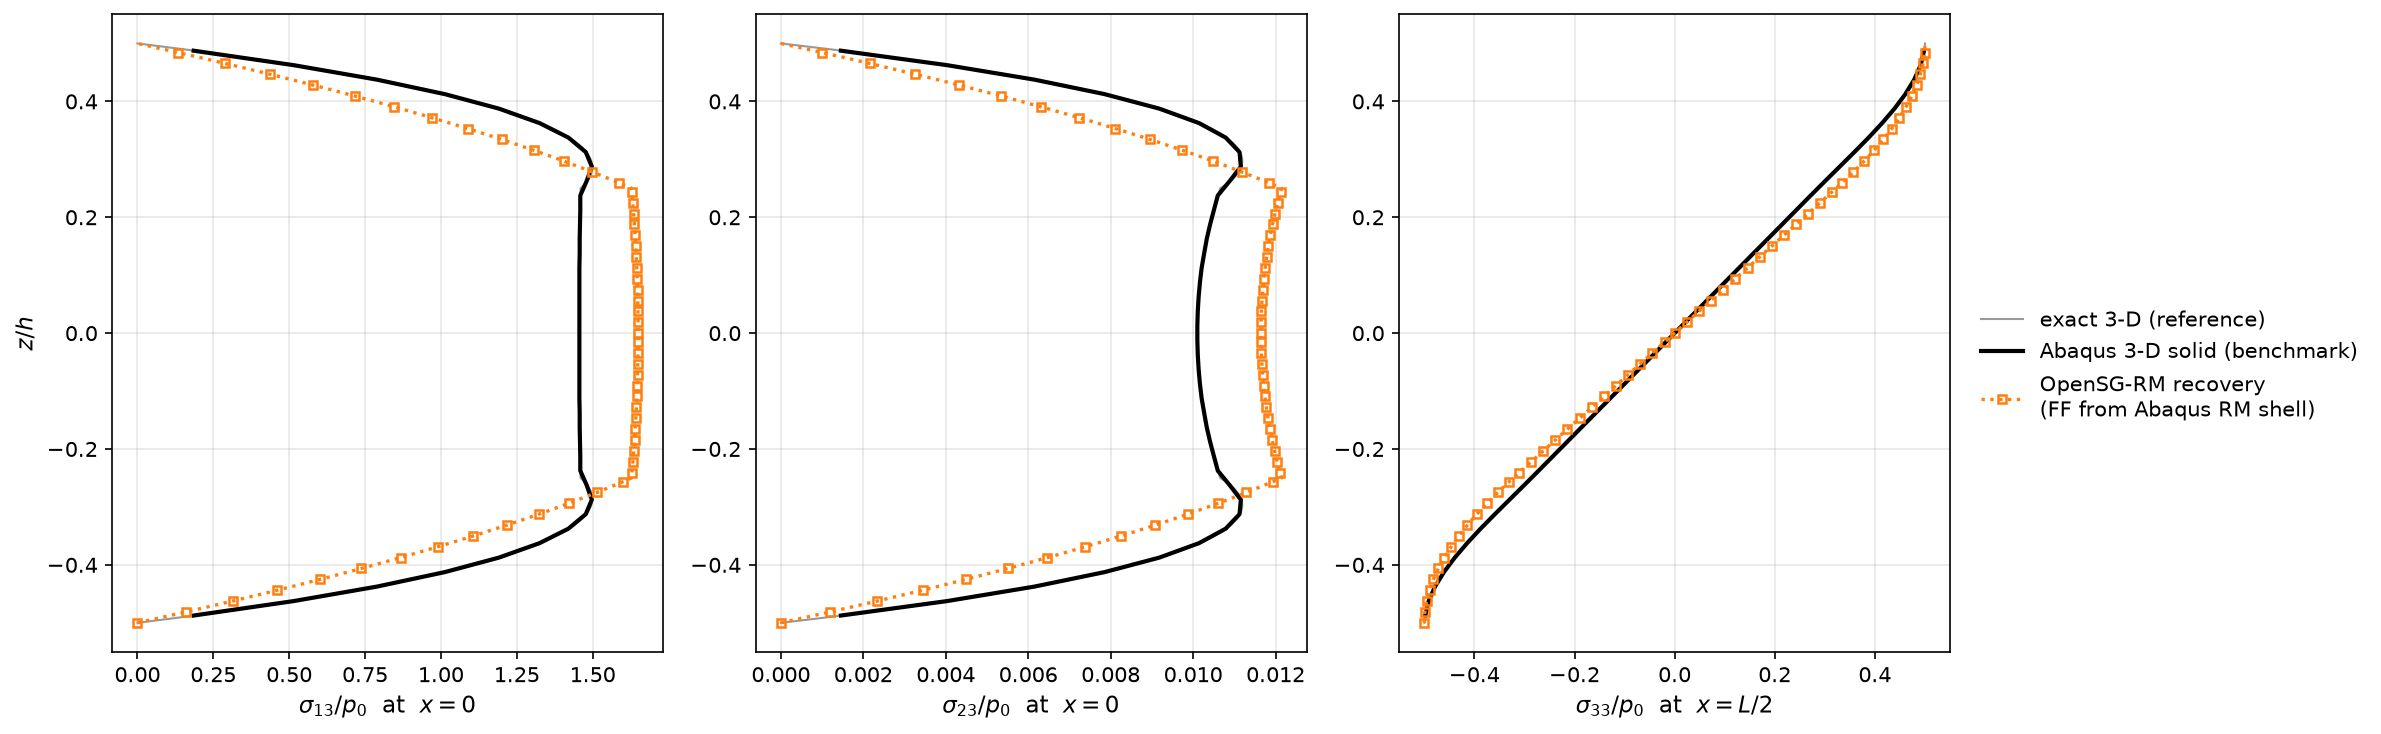
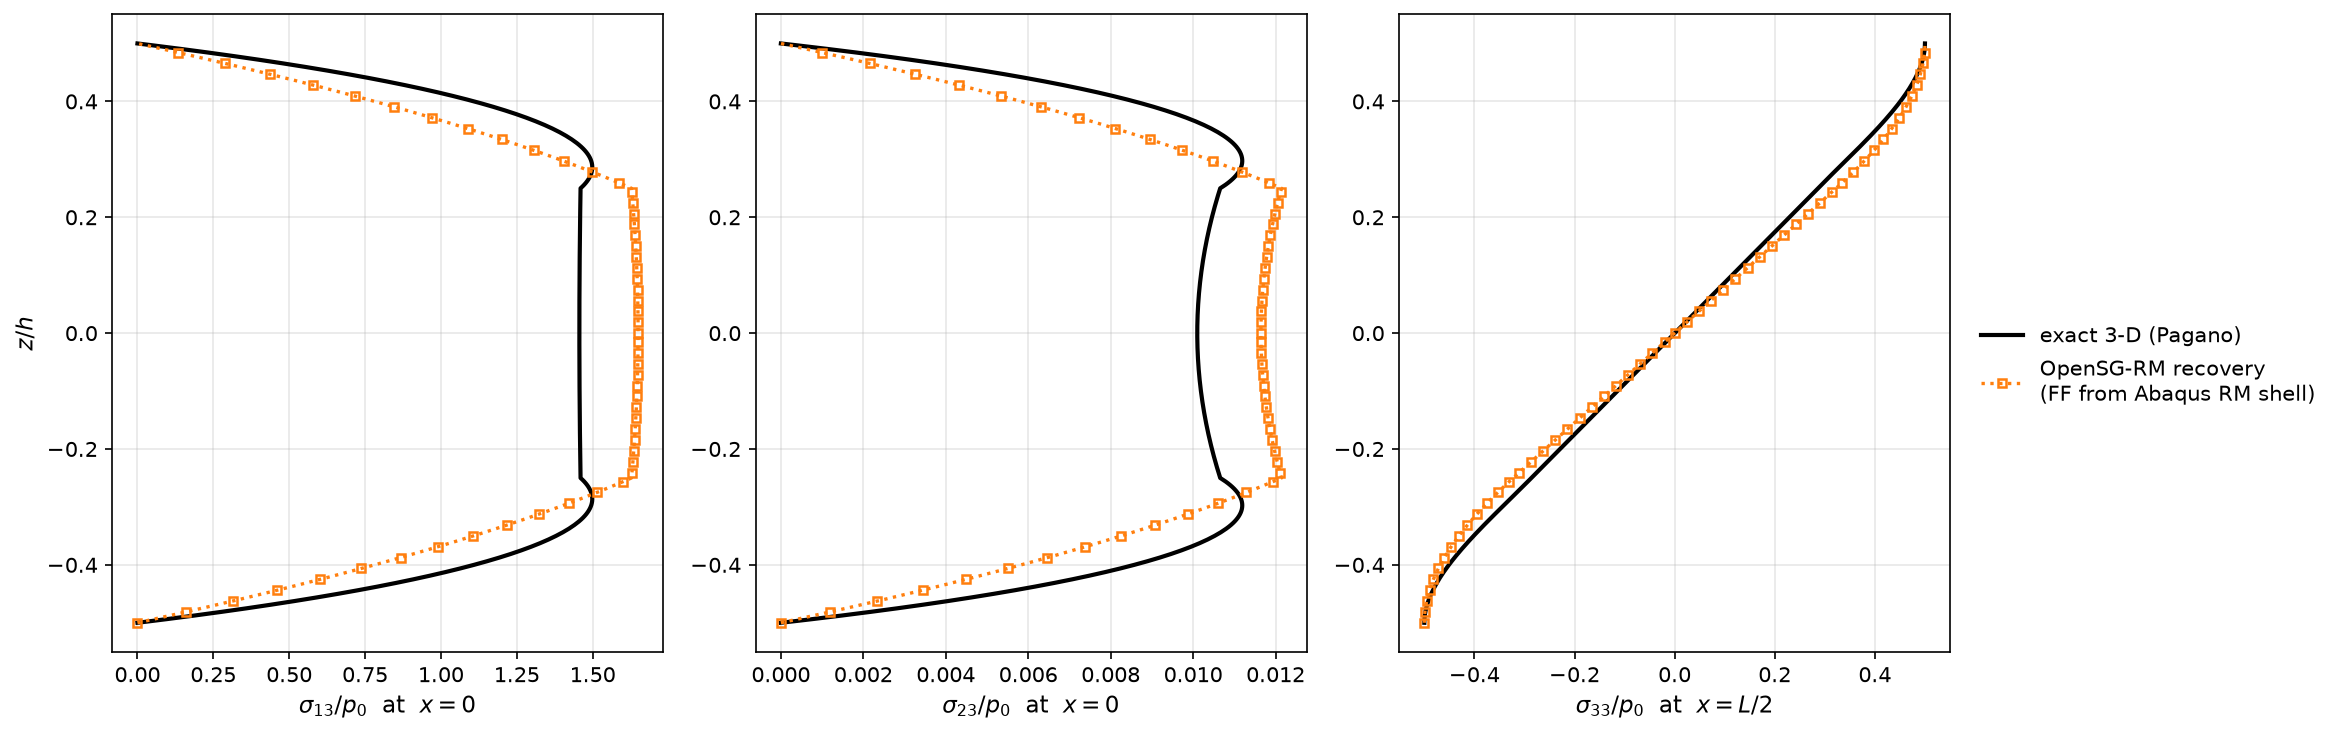
yu2003 6p2 plots: draw exact Pagano only (solid kept as the .dat cross-check, not plotted)

diff --git a/examples/yu2003/recover_6p2.py b/examples/yu2003/recover_6p2.py
@@ -339,15 +339,15 @@ def run_case(case):
                np.column_stack([zc, s13_r, s23_r, s33_r]),
                header="\n".join(hdr), fmt="%15.6e")
 
+    # the plot compares against the EXACT Pagano curves only -- the Abaqus solid
+    # is kept as the parsed/validated cross-check in the .dat numbers, not drawn
     fig, (ax1, ax2, ax3) = plt.subplots(1, 3, figsize=(13.2, 5.0))
-    for ax, (zb, b), (zm, mth), exact, lbl in (
-            (ax1, (zs, s13_s), (zc, s13_r), sige[:, 4], r"$\sigma_{13}/p_0$  at  $x=0$"),
-            (ax2, (zs, s23_s), (zc, s23_r), sige[:, 3], r"$\sigma_{23}/p_0$  at  $x=0$"),
-            (ax3, (zs, s33_s), (zc, s33_r), sige[:, 2], r"$\sigma_{33}/p_0$  at  $x=L/2$")):
-        ax.plot(exact, ze / h, "-", color="0.6", lw=1.0,
-                label="exact 3-D (reference)" if ax is ax1 else None)
-        ax.plot(b, zb / h, "-", color="k", lw=2.0,
-                label="Abaqus 3-D solid (benchmark)" if ax is ax1 else None)
+    for ax, (zm, mth), exact, lbl in (
+            (ax1, (zc, s13_r), sige[:, 4], r"$\sigma_{13}/p_0$  at  $x=0$"),
+            (ax2, (zc, s23_r), sige[:, 3], r"$\sigma_{23}/p_0$  at  $x=0$"),
+            (ax3, (zc, s33_r), sige[:, 2], r"$\sigma_{33}/p_0$  at  $x=L/2$")):
+        ax.plot(exact, ze / h, "-", color="k", lw=2.0,
+                label="exact 3-D (Pagano)" if ax is ax1 else None)
         ax.plot(mth, zm / h, ":s", color="#ff7f0e", ms=4, mfc="none", mew=1.2,
                 lw=1.6, markevery=6,
                 label="OpenSG-RM recovery\n(FF from Abaqus RM shell)"
